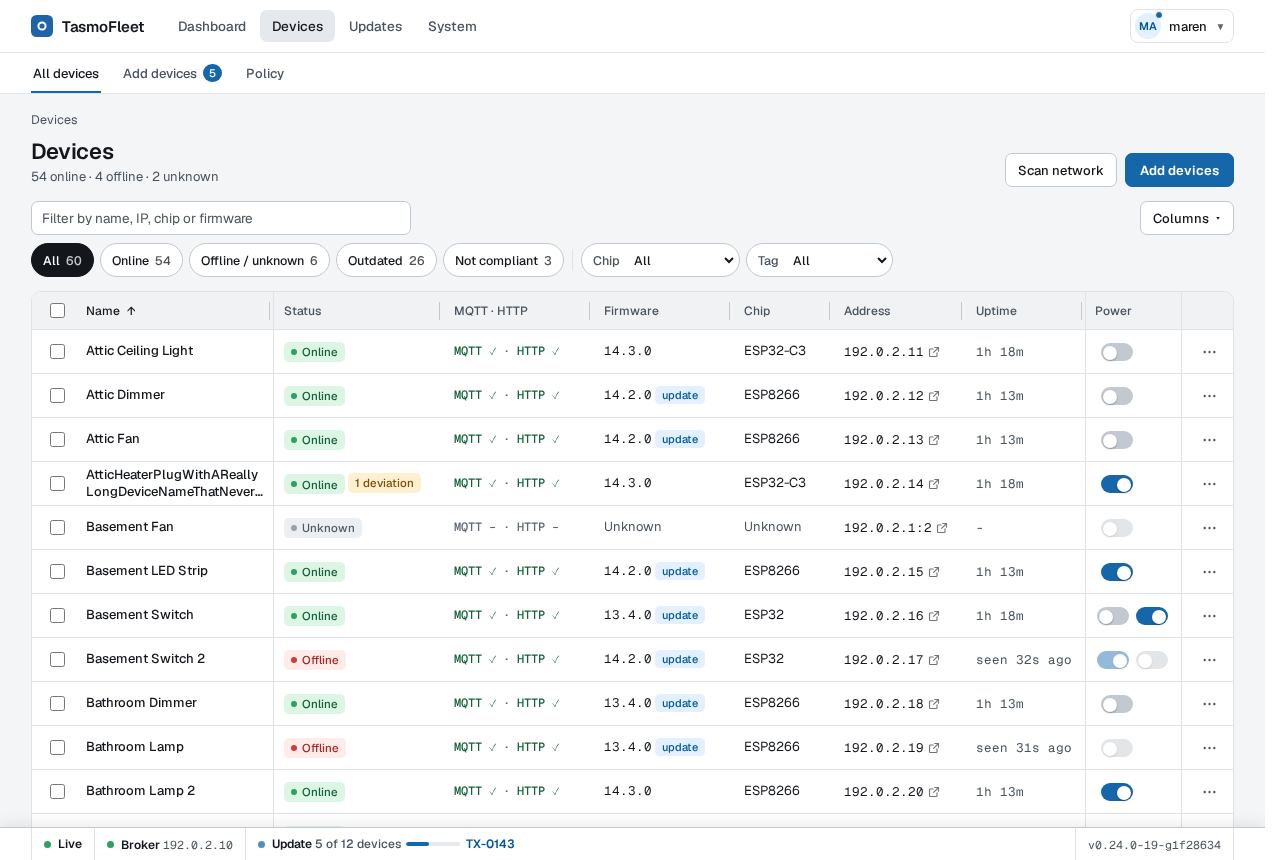
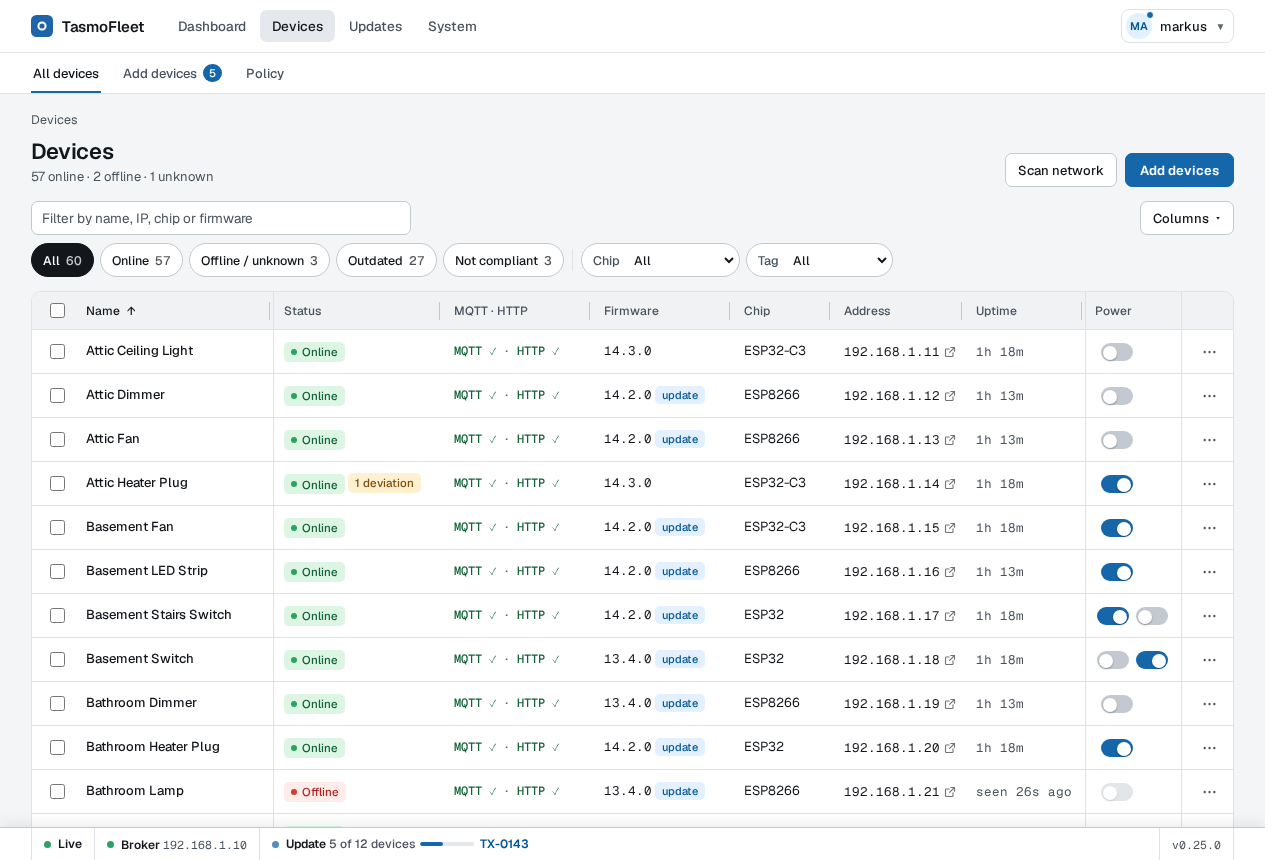
Re-render README media for 0.25.0 with clean demo data
make demo-media (DEMO_MEDIA=1) now renders a cleaned-up copy of the design
fleet, built in mediaFixture: plain device names (no 60-character name, no
numbered duplicates), each also its Friendly name 1, one home network
(192.168.1.x, home.lan) instead of documentation ranges, a running update
without a failed device (5 done, 4 in progress, 3 waiting), only two offline
devices and one that never answered, and a signed-in user "markus". The
design fixture the other specs use is unchanged. The devenv reads an optional
friendlyName per fixture device.

The four pictures and the animation were rendered with
make demo-media VERSION=v0.25.0 (status bar reads v0.25.0).

Refs #397

diff --git a/e2e/tests/demo-site.spec.ts b/e2e/tests/demo-site.spec.ts
@@ -12,7 +12,7 @@ import {
 } from "node:fs";
 import { dirname, join, posix } from "node:path";
 import { root } from "../support/stack";
-import { designAdmin } from "../support/seed";
+import { isMedia, pageAdmin } from "../support/seed";
 import { pickForUpdate, startUpdate, txnState } from "../support/updates";
 import { startVisualStack, type VisualStack } from "../support/visual-stack";
 
@@ -51,7 +51,7 @@ test("static demo site", async ({ browser }) => {
   const stack = await startVisualStack("fleet", browser);
   try {
     const context = await browser.newContext({
-      extraHTTPHeaders: designAdmin,
+      extraHTTPHeaders: pageAdmin,
       viewport: { width: 1280, height: 860 },
     });
     const page = await context.newPage();
@@ -75,11 +75,11 @@ test("README animation", async ({ browser }) => {
   const videoDir = join(root, "e2e/test-results/demo-video");
   rmSync(videoDir, { recursive: true, force: true });
   try {
-    const setup = await browser.newContext({ extraHTTPHeaders: designAdmin });
+    const setup = await browser.newContext({ extraHTTPHeaders: pageAdmin });
     await setTheme(await setup.newPage(), stack, "light");
     await setup.close();
     const context = await browser.newContext({
-      extraHTTPHeaders: designAdmin,
+      extraHTTPHeaders: pageAdmin,
       viewport: { width: 1280, height: 760 },
       recordVideo: { dir: videoDir, size: { width: 1280, height: 760 } },
     });
@@ -418,16 +418,22 @@ function neutralise(html: string): string {
 function addressRewriter(): (s: string, ownPort?: string) => string {
   const loop = new Map<string, string>();
   const ip = (port: string) => {
-    if (!loop.has(port)) loop.set(port, `192.0.2.${10 + loop.size}`);
+    if (!loop.has(port)) loop.set(port, `${isMedia ? "192.168.1" : "192.0.2"}.${10 + loop.size}`);
     return loop.get(port)!;
   };
+  // The README pictures (DEMO_MEDIA) show one ordinary home network (192.168.1.x, home.lan) instead of the
+  // documentation ranges; short addresses keep the device list's Address column from truncating. A bare
+  // 127.0.0.1 away from a device's own pages is a device's former address (Address changed on the
+  // dashboard), so each one gets an address of its own.
+  let bare = 0;
+  const other = () => (isMedia ? `192.168.1.${150 + bare++}` : "192.0.2.1");
   return (s, ownPort) =>
     s
       .replace(/127\.0\.0\.1:(\d{2,5})/g, (_, port: string) => ip(port))
-      .replace(/127\.0\.0\.1(?![/\d])/g, () => (ownPort ? ip(ownPort) : "192.0.2.1"))
-      .replace(/\b192\.168\.20\.(\d{1,3})\b/g, "198.51.100.$1")
+      .replace(/127\.0\.0\.1(?![/\d])/g, () => (ownPort ? ip(ownPort) : other()))
+      .replace(/\b192\.168\.20\.(\d{1,3})\b/g, isMedia ? "192.168.1.$1" : "198.51.100.$1")
       // the device captures (testdata/fixtures) and the app's placeholders use 172.31.x and lab.home
-      .replace(/\b172\.31\.\d{1,3}\.(\d{1,3})\b/g, "203.0.113.$1")
-      .replace(/\b([a-z0-9-]+)\.(<wbr>)?lab\.(<wbr>)?home\b/g, "$1.$2example.$3internal") // long values carry <wbr> after dots
+      .replace(/\b172\.31\.\d{1,3}\.(\d{1,3})\b/g, isMedia ? "192.168.1.$1" : "203.0.113.$1")
+      .replace(/\b([a-z0-9-]+)\.(<wbr>)?lab\.(<wbr>)?home\b/g, isMedia ? "$1.$2home.$3lan" : "$1.$2example.$3internal") // long values carry <wbr> after dots
       .replace(/\/tmp\/tasmofleet-[A-Za-z0-9_-]+/g, "/data");
 }

diff --git a/e2e/support/seed.ts b/e2e/support/seed.ts
@@ -194,6 +194,61 @@ export function loadDesignFixture(): DesignFixture {
   return JSON.parse(readFileSync(designFixturePath, "utf8")) as DesignFixture;
 }
 
+
+// ---------------------------------------------------------------------------
+// README media fleet (make demo-media)
+// ---------------------------------------------------------------------------
+
+/** isMedia: the run renders the README's pictures (DEMO_MEDIA=1), which use the cleaned-up fleet of mediaFixture. */
+export const isMedia = !!process.env.DEMO_MEDIA;
+
+/** mediaAdmin is the signed-in admin of the README pictures: the name shows in the navigation bar. */
+export const mediaAdmin = { "X-authentik-username": "markus", "X-authentik-groups": "adm" };
+
+/** pageAdmin is the admin principal of the run: the design's Maren, or the media's Markus. */
+export const pageAdmin = isMedia ? mediaAdmin : designAdmin;
+
+/** mediaNames are the fixture devices that get a plainer name for the pictures (no "Kitchen Plug 2" style numbering, no 60-character name). */
+const mediaNames: Record<string, string> = {
+  d7: "Attic Heater Plug",
+  d25: "Greenhouse Fan",
+  d34: "Workshop Heater Plug",
+  d36: "Carport Ceiling Light",
+  d38: "Basement Stairs Switch",
+  d39: "Guest Bathroom Lamp",
+  d43: "Guest Room Heater Plug",
+  d44: "Terrace Ceiling Light",
+  d47: "Dining Room Dimmer",
+  d48: "Guest Room LED Strip",
+  d50: "Bathroom Heater Plug",
+  d51: "Garage Entrance Ceiling Light",
+  d56: "Workshop Bench Dimmer",
+  d59: "Entrance Ceiling Light",
+};
+
+/**
+ * mediaFixture derives the fleet of the README pictures from the design fixture, which stays as it
+ * is for the other specs: believable device names (each also its Friendly name 1), a home domain
+ * instead of lab.home, a running update without a failed device (5 done, 4 in progress, 3 waiting),
+ * and only a few devices that need attention (two offline, one never answered).
+ */
+export function mediaFixture(fx: DesignFixture): DesignFixture {
+  const m: DesignFixture = JSON.parse(JSON.stringify(fx).replaceAll("mqtt.lab.home", "mqtt.home.lan").replaceAll("@lab.home", "@home.lan").replaceAll("Use the lab MQTT broker", "Use the home MQTT broker"));
+  for (const d of m.devices) {
+    d.name = mediaNames[d.id] ?? d.name;
+    (d as { friendlyName?: string }).friendlyName = d.name;
+    if (["d38", "d49", "d53"].includes(d.id)) d.status = "online";
+  }
+  const name = (id: string) => m.devices.find((d) => d.id === id)!.name;
+  for (const t of m.transaction.devices) {
+    t.name = name(t.id);
+    if (t.state === "failed") t.state = "downloading";
+  }
+  for (const u of m.users) if (u.user === "maren") u.user = "markus";
+  for (const u of m.users as { name: string }[]) if (u.name === "Maren Koch") u.name = "Markus Koch";
+  return m;
+}
+
 /** designAdmin and designOperator are the header principals of the visual stacks; the prototype's signed-in user is Maren. */
 export const designAdmin = { "X-authentik-username": "maren", "X-authentik-groups": "adm" };
 export const designOperator = { "X-authentik-username": "jonas", "X-authentik-groups": "ops" };

diff --git a/e2e/support/visual-stack.ts b/e2e/support/visual-stack.ts
@@ -2,7 +2,7 @@ import { mkdtempSync, rmSync, writeFileSync } from "node:fs";
 import { tmpdir } from "node:os";
 import { join } from "node:path";
 import type { Browser } from "@playwright/test";
-import { designAdmin, designFixturePath, designPolicyRules, deviceIds, loadDesignFixture, seedDesignV2, seedRunningTransaction, type DesignFixture } from "./seed";
+import { designFixturePath, designPolicyRules, deviceIds, isMedia, loadDesignFixture, mediaFixture, pageAdmin, seedDesignV2, seedRunningTransaction, type DesignFixture } from "./seed";
 import { App, Devenv, freePort, startApp, startDevenv } from "./stack";
 import type { StackKind } from "./visual-entries";
 
@@ -55,8 +55,17 @@ function plain(kind: StackKind, app: App): VisualStack {
 }
 
 async function startFleet(browser: Browser, mutating: boolean): Promise<VisualStack> {
-  const fx = loadDesignFixture();
-  const env = await startDevenv(["-design-fixture", designFixturePath]);
+  let fx = loadDesignFixture();
+  let fixturePath = designFixturePath;
+  let mediaDir = "";
+  if (isMedia) {
+    // the README pictures show a cleaned-up copy of the fleet, written next to the run
+    fx = mediaFixture(fx);
+    mediaDir = mkdtempSync(join(tmpdir(), "tasmofleet-media-"));
+    fixturePath = join(mediaDir, "media-fixture.json");
+    writeFileSync(fixturePath, JSON.stringify(fx));
+  }
+  const env = await startDevenv(["-design-fixture", fixturePath]);
   const fwPort = await freePort();
   const app = await startApp({
     env: {
@@ -72,8 +81,9 @@ async function startFleet(browser: Browser, mutating: boolean): Promise<VisualSt
   const stop = async () => {
     await app.stop();
     await env.stop();
+    if (mediaDir) rmSync(mediaDir, { recursive: true, force: true });
   };
-  const page = await browser.newPage({ extraHTTPHeaders: designAdmin, viewport: { width: 1280, height: 900 } });
+  const page = await browser.newPage({ extraHTTPHeaders: pageAdmin, viewport: { width: 1280, height: 900 } });
   try {
     importFleet(app, env, fx);
     await seedDesignV2(page, app, env, fx);

diff --git a/cmd/tasmofleet-devenv/design.go b/cmd/tasmofleet-devenv/design.go
@@ -26,7 +26,10 @@ type designFixture struct {
 	// ReleaseNotes are the date and notes of the newest releases (the firmware page's list).
 	ReleaseNotes []designRelease `json:"releaseNotes"`
 	Devices      []struct {
-		Name         string `json:"name"`
+		Name string `json:"name"`
+		// FriendlyName, when set, is the device's Friendly name 1 (the README media's fleet sets it to the
+		// name; without it the simulator keeps the name of the capture it replays).
+		FriendlyName string `json:"friendlyName"`
 		Chip         string `json:"chip"`
 		Firmware     string `json:"firmware"`
 		Status       string `json:"status"`
@@ -138,8 +141,12 @@ func startDesignFleet(ctx context.Context, fleet simulator.Fleet, fx *designFixt
 		if d.Relays == 2 {
 			power[1] = !d.Power // the prototype shows relay 2 as the opposite of relay 1
 		}
+		var friendly []string
+		if d.FriendlyName != "" {
+			friendly = []string{d.FriendlyName}
+		}
 		dev, err := fleet.Add(ctx, simulator.DeviceSpec{
-			Name: d.Name, Profile: profile, Version: d.Firmware, Relays: d.Relays, Power: power,
+			Name: d.Name, Profile: profile, Version: d.Firmware, Relays: d.Relays, Power: power, FriendlyNames: friendly,
 			Settings: map[string]string{
 				"teleperiod":   fmt.Sprint(d.TelePeriod),
 				"poweronstate": fmt.Sprint(d.PowerOnState),
